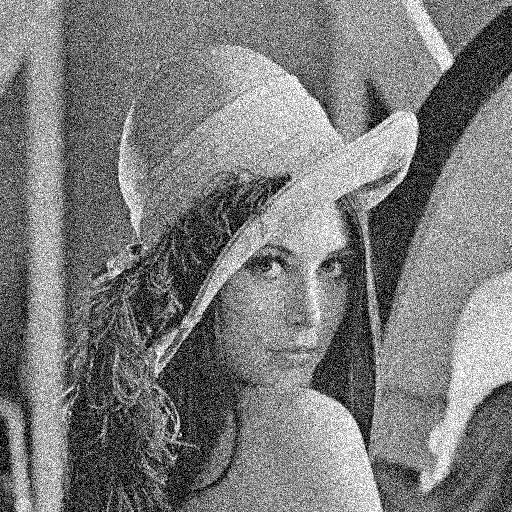
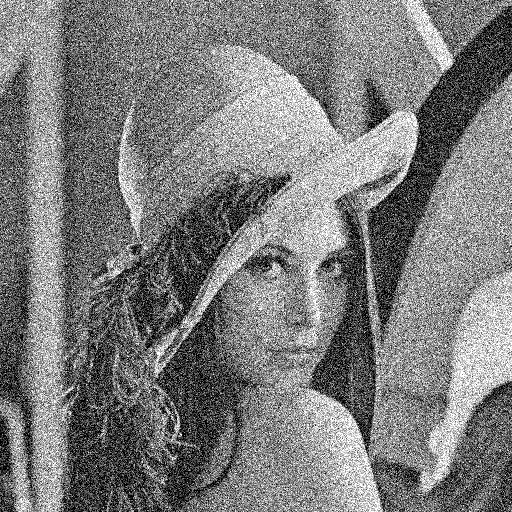
update min, max, median filter

diff --git a/Filtering.py b/Filtering.py
@@ -49,28 +49,25 @@ class Filter(tk.Tk):
                                              command=lambda: self.contraharmonic_mean("contraharmonic"))
         self.contra_harmonic_button.pack(side=TOP, fill=BOTH)
 
-        self.median_button = Button(self, text="Median Filter", fg="blue", font=("", 20), command=self.print)
-        self.median_button.pack(side=TOP, fill=BOTH)
-
-        self.min_button = Button(self, text="Min Filter", fg="blue", font=("", 20), command=self.print)
+        self.min_button = Button(self, text="Min Filter", fg="blue", font=("", 20), command=lambda:  self.min_filter("min"))
         self.min_button.pack(side=TOP, fill=BOTH)
 
-        self.max_button = Button(self, text="Max Filter", fg="blue", font=("", 20), command=self.print)
+        self.max_button = Button(self, text="Max Filter", fg="blue", font=("", 20), command=lambda: self.max_filter("max"))
         self.max_button.pack(side=TOP, fill=BOTH)
+
+        self.median_button = Button(self, text="Median Filter", fg="blue", font=("", 20),command=lambda: self.median_filter("median"))
+        self.median_button.pack(side=TOP, fill=BOTH)
+
+        self.trimmed_button = Button(self, text="Alpha Trimmed Filter", fg="blue", font=("", 20),command=lambda: self.alpha_trim("trim"))
+        self.trimmed_button.pack(side=TOP, fill=BOTH)
+
 
         self.adaptive_button = Button(self, text="Adaptive Filter", fg="blue", font=("", 20), command=self.print)
         self.adaptive_button.pack(side=TOP, fill=BOTH)
 
-        self.trimmed_button = Button(self, text="Alpha Trimmed Mean Filter", fg="blue", font=("", 20), command=self.print)
-        self.trimmed_button.pack(side=TOP, fill=BOTH)
 
         self.restart_button = Button(self, text="Restart Program", fg="RED", font=("", 20), highlightbackground='Yellow', command=self.restart)
         self.restart_button.pack(side=BOTTOM)
-
-
-
-    def print(self):
-        print("hello")
 
 
     def arithmetic_mean(self,filter_type):
@@ -182,10 +179,101 @@ class Filter(tk.Tk):
         self.save_image()
         self.display_image()
 
+    def min_filter(self,filter_type):
+        self.filter_type = filter_type
+        self.get_filter_size()
+        pad_h = int(1 / 2 * (self.filter_h - 1))  # think there should be +.5
+        pad_w = int(1 / 2 * (self.filter_w - 1))
+        image_pad = np.pad(self.PIL_image, ((pad_h, pad_h), (pad_w, pad_w)), 'constant', constant_values=0)
+        filtered_image = np.zeros((self.height, self.width))
+
+        for h in range(self.height):
+            for w in range(self.width):
+                vert_start = h
+                vert_end = h + self.filter_h
+                horiz_start = w
+                horiz_end = w + self.filter_w
+                image_slice = image_pad[vert_start:vert_end, horiz_start:horiz_end]
+                filtered_image[h, w] = np.amin(image_slice)
+
+        self.filtered_image_result = self.full_contrast_stretch(filtered_image)
+        self.save_image()
+        self.display_image()
+
+    def max_filter(self,filter_type):
+        self.filter_type = filter_type
+        self.get_filter_size()
+        pad_h = int(1 / 2 * (self.filter_h - 1))  # think there should be +.5
+        pad_w = int(1 / 2 * (self.filter_w - 1))
+        image_pad = np.pad(self.PIL_image, ((pad_h, pad_h), (pad_w, pad_w)), 'constant', constant_values=0)
+        filtered_image = np.zeros((self.height, self.width))
+
+        for h in range(self.height):
+            for w in range(self.width):
+                vert_start = h
+                vert_end = h + self.filter_h
+                horiz_start = w
+                horiz_end = w + self.filter_w
+                image_slice = image_pad[vert_start:vert_end, horiz_start:horiz_end]
+                filtered_image[h, w] = np.amax(image_slice)
+
+        self.filtered_image_result = self.full_contrast_stretch(filtered_image)
+        self.save_image()
+        self.display_image()
+
+    def median_filter(self,filter_type):
+        self.filter_type = filter_type
+        self.get_filter_size()
+        pad_h = int(1 / 2 * (self.filter_h - 1))  # think there should be +.5
+        pad_w = int(1 / 2 * (self.filter_w - 1))
+        image_pad = np.pad(self.PIL_image, ((pad_h, pad_h), (pad_w, pad_w)), 'constant', constant_values=0)
+        filtered_image = np.zeros((self.height, self.width))
+
+        for h in range(self.height):
+            for w in range(self.width):
+                vert_start = h
+                vert_end = h + self.filter_h
+                horiz_start = w
+                horiz_end = w + self.filter_w
+                image_slice = image_pad[vert_start:vert_end, horiz_start:horiz_end]
+                filtered_image[h, w] = np.median(image_slice)
+
+        self.filtered_image_result = self.full_contrast_stretch(filtered_image)
+        self.save_image()
+        self.display_image()
+
+    def alpha_trim(self,filter_type):
+        self.filter_type = filter_type
+        self.get_filter_size()
+
+        if ((self.filter_h * self.filter_w - self.order) < 0):
+            print("Order must be smaller than filter size\n")
+            restart.restart_program(self)
+
+        t = self.filter_h * self.filter_w - self.order
+        pad_h = int(1 / 2 * (self.filter_h - 1))  # think there should be +.5
+        pad_w = int(1 / 2 * (self.filter_w - 1))
+        image_pad = np.pad(self.PIL_image, ((pad_h, pad_h), (pad_w, pad_w)), 'constant', constant_values=0)
+        filtered_image = np.zeros((self.height, self.width))
+
+        for h in range(self.height):
+            for w in range(self.width):
+                vert_start = h
+                vert_end = h + self.filter_h
+                horiz_start = w
+                horiz_end = w + self.filter_w
+                image_slice = image_pad[vert_start:vert_end, horiz_start:horiz_end]
+                filtered_image[h, w] = np.uint8(1/t * np.sum(image_slice))
+
+        self.filtered_image_result = self.full_contrast_stretch(filtered_image)
+        self.save_image()
+        self.display_image()
+
 
     def compute_histogram(self):
         self.destroy()
         After_Analysis(self.filter_image_path)
+
     def display_image(self):
         self.result_frame = tk.Toplevel()
         self.result_frame.title("Restored Image")
@@ -209,10 +297,11 @@ class Filter(tk.Tk):
 
         button2 = Button(self.result_frame, text="Compute Histogram", fg="blue", font=("", 20),command=self.compute_histogram)
         button2.pack(side=TOP, fill=BOTH)
+
     def get_hwo(self):
         self.filter_h = int(self.my_entry_h.get())
         self.filter_w = int(self.my_entry_w.get())
-        if(self.filter_type == "contraharmonic"):
+        if(self.filter_type == "contraharmonic" or self.filter_type == "trim"):
             self.order = int(self.my_entry_order.get())
         self.update()
         self.input_window.destroy()
@@ -223,6 +312,7 @@ class Filter(tk.Tk):
         max_pixel = np.max(image)
         image = np.uint8(255 / (max_pixel - min_pixel) * (image - min_pixel) + 0.5)
         return image
+
     def get_filter_size(self):
 
         # This is getting user input
@@ -247,7 +337,7 @@ class Filter(tk.Tk):
         self.my_entry_w.grid(row=2, column=1)
 
 
-        if(self.filter_type == "contraharmonic"):
+        if(self.filter_type == "contraharmonic" or self.filter_type == "trim" ):
             order = tk.Label(self.input_window, text="order:")
             order.grid(row=3, column=0, sticky=W)
             self.my_entry_order = tk.Entry(self.input_window)
@@ -263,5 +353,9 @@ class Filter(tk.Tk):
         self.filter_image_path = output_dir + self.image_name + ".png"
         # filtered_path = output_dir + 'Arithmetic_Result' + ".png"
         cv2.imwrite(self.filter_image_path, self.filtered_image_result)
+
     def restart(self):
         restart.restart_program(self)
+
+    def print(self):
+        print("hello")

diff --git a/main.py b/main.py
@@ -9,7 +9,7 @@ from PIL import Image, ImageTk
 import numpy as np
 from numpy import *
 from crop import Cropping
-#from Filtering import Filter
+from Filtering import Filter
 
 class Application(tk.Tk):
     def __init__(self):
@@ -177,8 +177,8 @@ class Application(tk.Tk):
         Image_Cropping_Button = Button(self.noise_window, text="Noise Analysis", fg="Red", font=("", 22),command=lambda: self.noise_analysis(self.path))
         Image_Cropping_Button.pack(side=TOP, fill=BOTH)
 
-        #Filter_Button = Button(self.noise_window, text="Filter Selection", fg="blue", font=("", 22), command= self.Filtering)
-        #Filter_Button.pack(side=TOP, fill=BOTH)
+        Filter_Button = Button(self.noise_window, text="Filter Selection", fg="blue", font=("", 22), command= self.Filtering)
+        Filter_Button.pack(side=TOP, fill=BOTH)
 
 
     def get_noise_parameters(self, noise_type):
@@ -255,12 +255,11 @@ class Application(tk.Tk):
         self.update()
         self.input_window.destroy()
 
-    """
+
     def Filtering(self):
-    self.noise_window.destroy()
-    self.destroy()
-    Filter(self.path)
-    """
+        self.noise_window.destroy()
+        self.destroy()
+        Filter(self.path)
 
 
     def restart_program(self):
